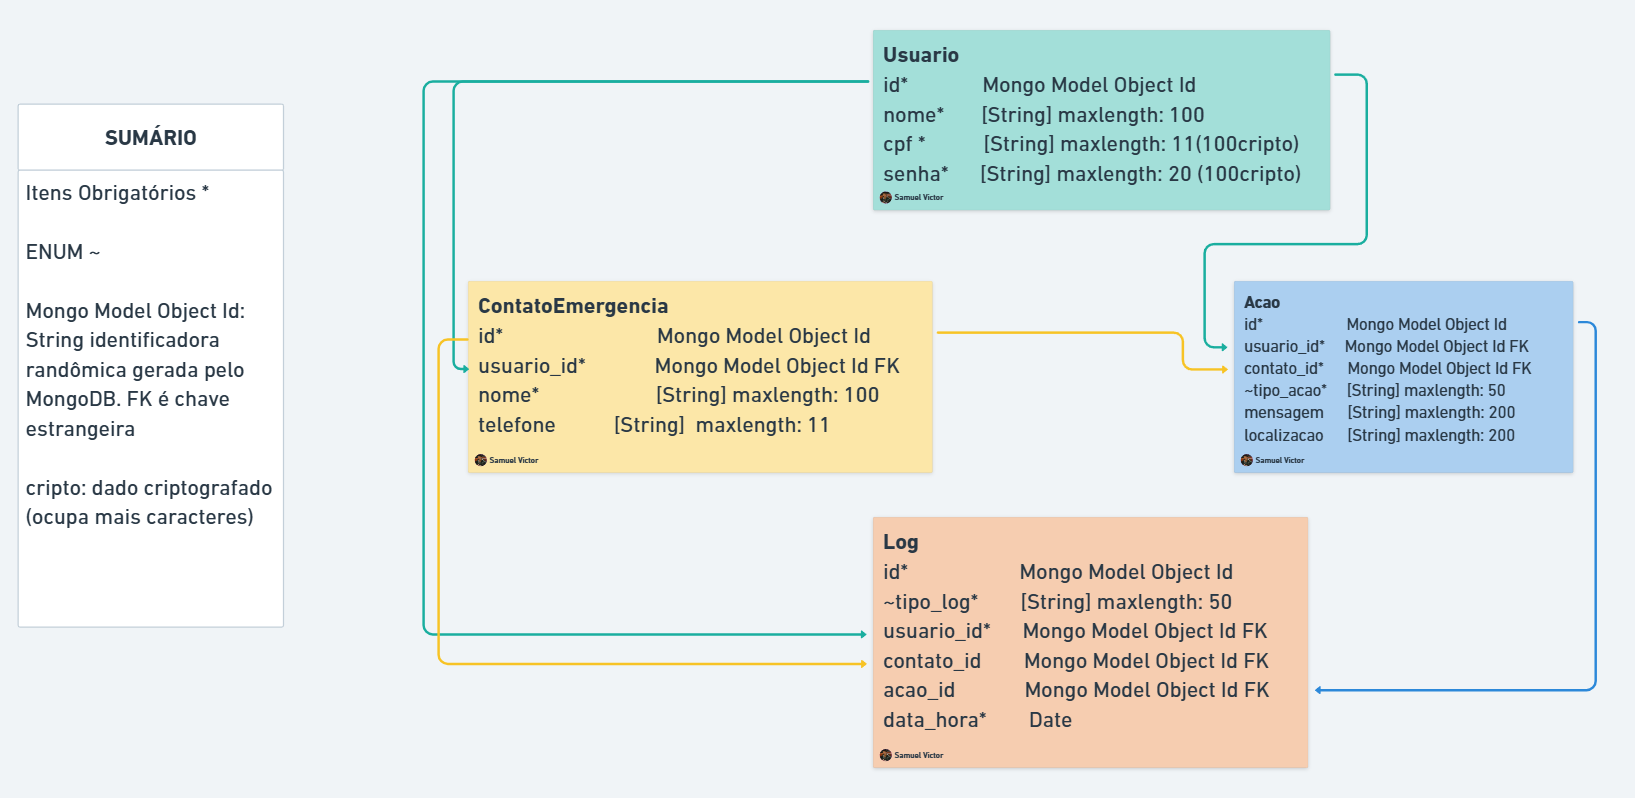
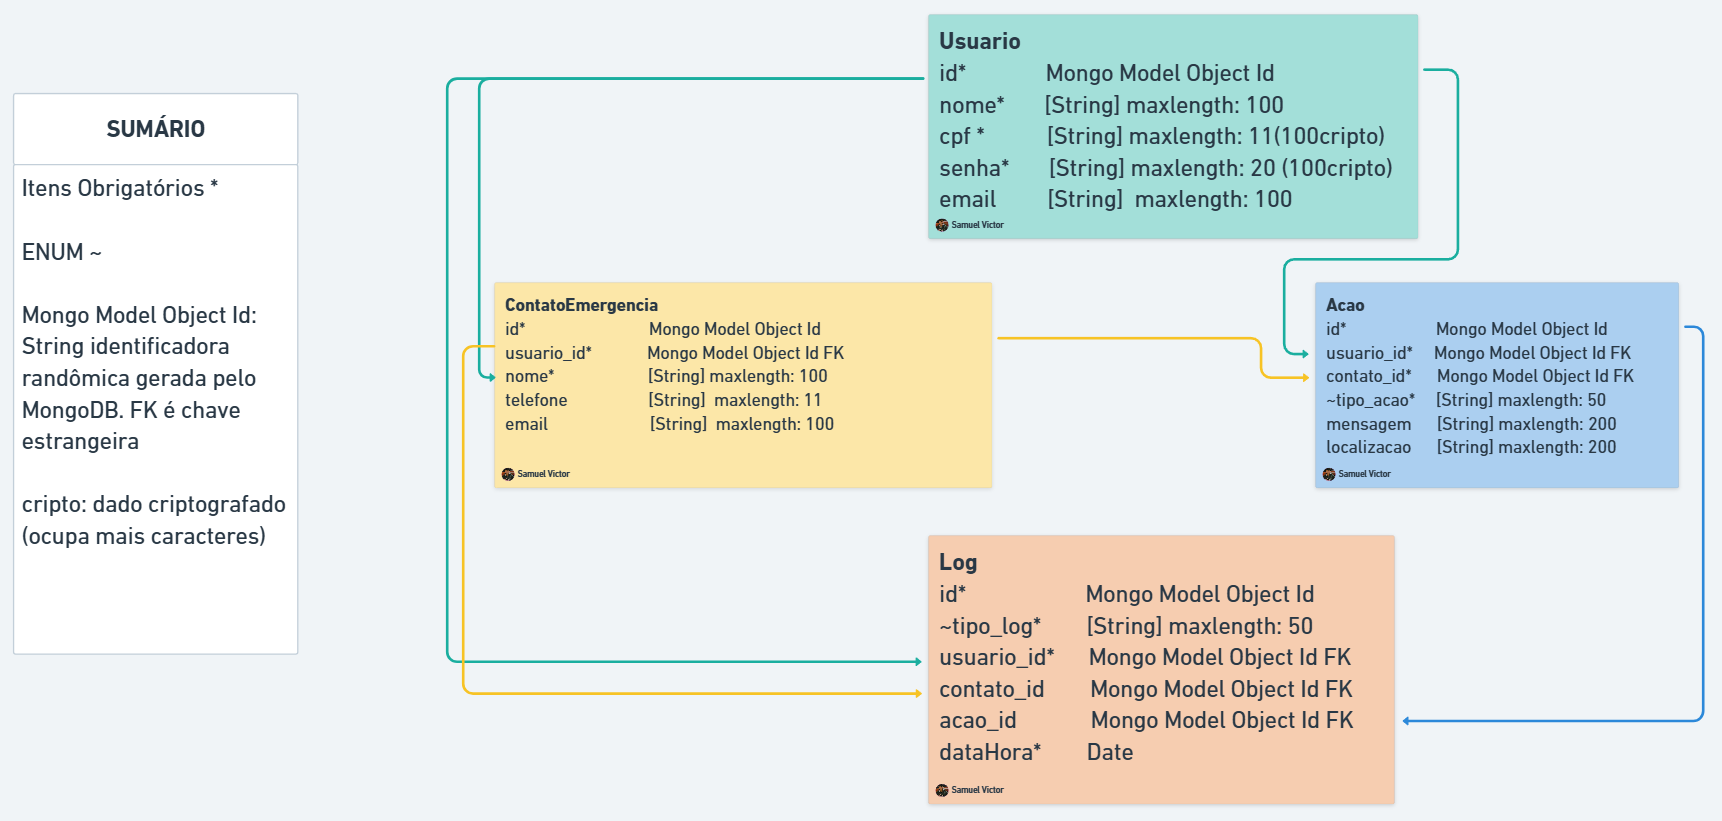
atualiza documentação

diff --git a/README.MD b/README.MD
@@ -1,7 +1,7 @@
 # 🏦 TJGO / UFG - INTRODUÇÃO A PROGRAMAÇÃO 🖥
 # 🌱 PROJETO I
-> [Acessar código fonte](https://www.google.com)
-> [Andamento do Projeto](https://www.google.com)
+> [Acessar código fonte](https://github.com/Residencia-em-Tecnologia-TJGO/Introducao-Programacao/tree/projeto-01)<br>
+> [Andamento do Projeto](https://github.com/orgs/Residencia-em-Tecnologia-TJGO/projects/1/views/1)<br>
 > <strong>Prof(a):</strong> Nádia Felix Felipe da Silva - <strong>Aluno:</strong> [Samuel Victor Oliveira Lima](https://samuelvictorol.github.io/portfolio/)
 
 
@@ -14,7 +14,7 @@
 
 ### <br><strong>Modelagem de Dados</strong>
 
-> [Acessar modelagem](https://www.google.com)
+> [Acessar modelagem](https://github.com/Residencia-em-Tecnologia-TJGO/Introducao-Programacao/blob/projeto-01/modelagem-de-dados-Projeto-01.png)
 
 O sistema é composto por quatro modelos principais:
 
@@ -25,6 +25,7 @@ Campos:
 nome: Nome do usuário.
 cpf: CPF do usuário (armazenado de forma segura).
 senha: Hash criptografado da senha.
+email: email do usuário
 
 <strong>2. Contato de Emergência</strong>
 Representa os contatos de emergência cadastrados pelo usuário.
@@ -33,6 +34,7 @@ Campos:
 usuarioId: Referência ao usuário dono do contato.
 nome: Nome do contato.
 telefone: Número de WhatsApp do contato.
+email: email do contato emergencial
 
 <strong>3. Ação</strong>
 Define uma ação de emergência iniciada pelo usuário.
@@ -76,13 +78,13 @@ Registro de Logs: Todas as ações são armazenadas para auditoria.
 
 ## ⌨ Backend
 
-> [Acessar diretório](https://www.google.com)
-- [Como rodar o backend](https://www.google.com)
+> [Acessar diretório](https://github.com/Residencia-em-Tecnologia-TJGO/Introducao-Programacao/tree/projeto-01/backend)
+- [Como rodar o backend](https://github.com/Residencia-em-Tecnologia-TJGO/Introducao-Programacao/blob/projeto-01/backend/README.md)
 
 ## 🖥 Frontend
 
-> [Acessar diretório](https://www.google.com)
-- [Como rodar o frontend](https://www.google.com)
+> [Acessar diretório](https://github.com/Residencia-em-Tecnologia-TJGO/Introducao-Programacao/tree/projeto-01/frontend)
+- [Como rodar o frontend](https://github.com/Residencia-em-Tecnologia-TJGO/Introducao-Programacao/blob/projeto-01/frontend/README.md)
 
 # 🎲 Base de Dados dos Projetos
 
